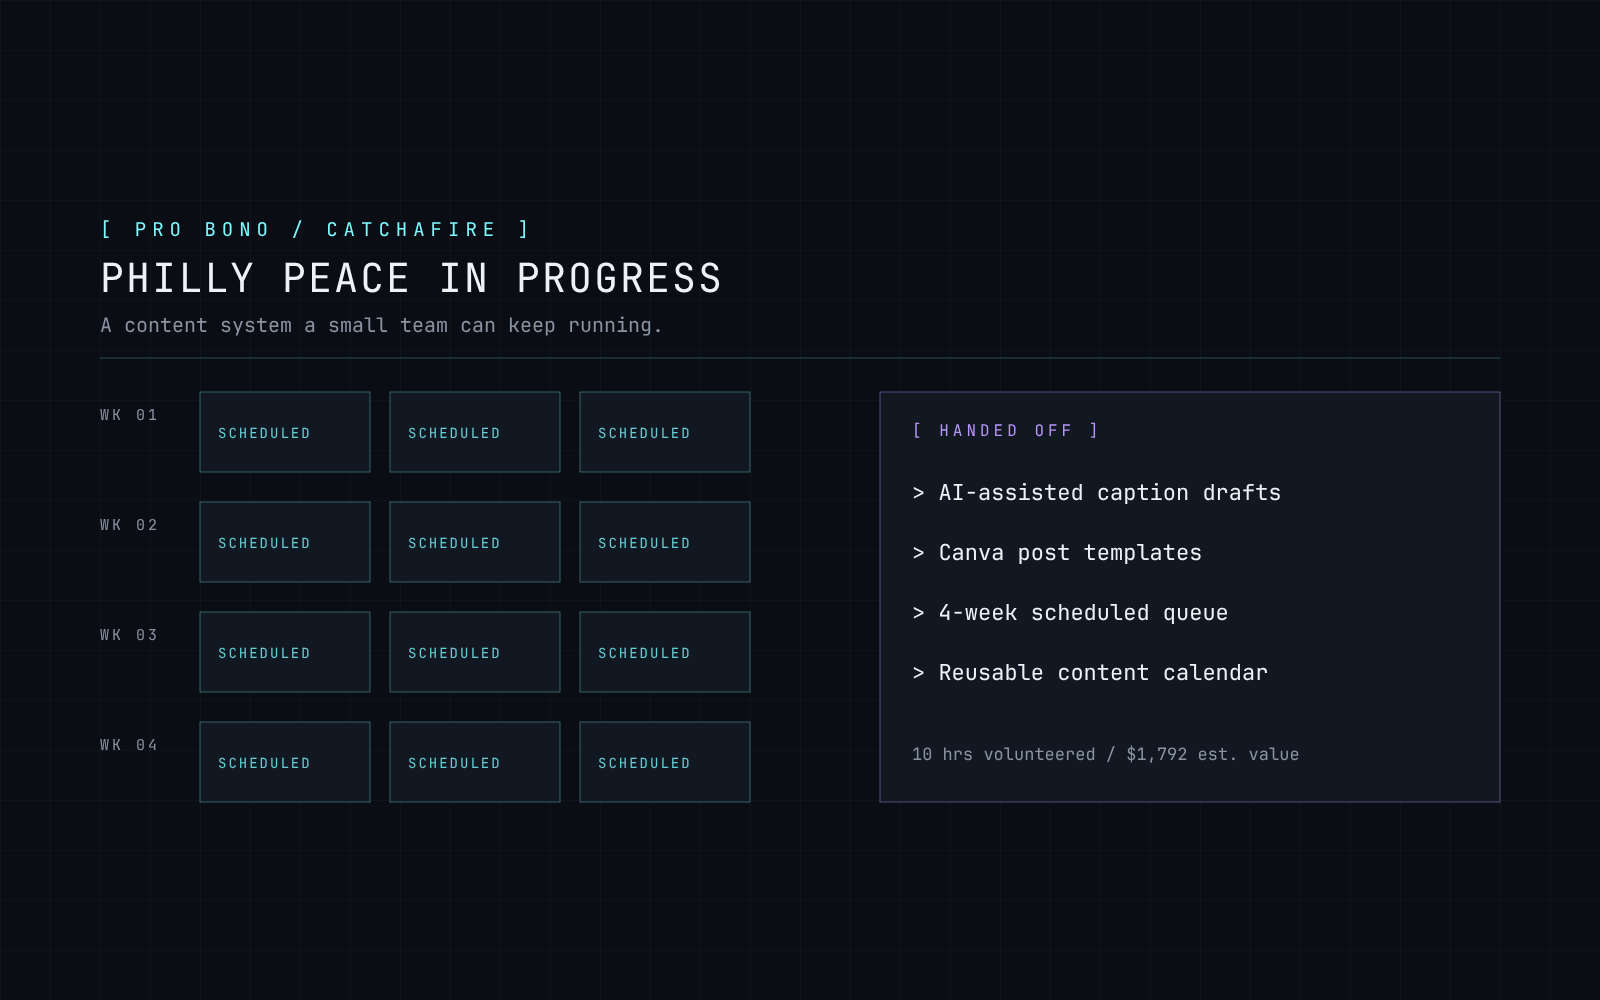
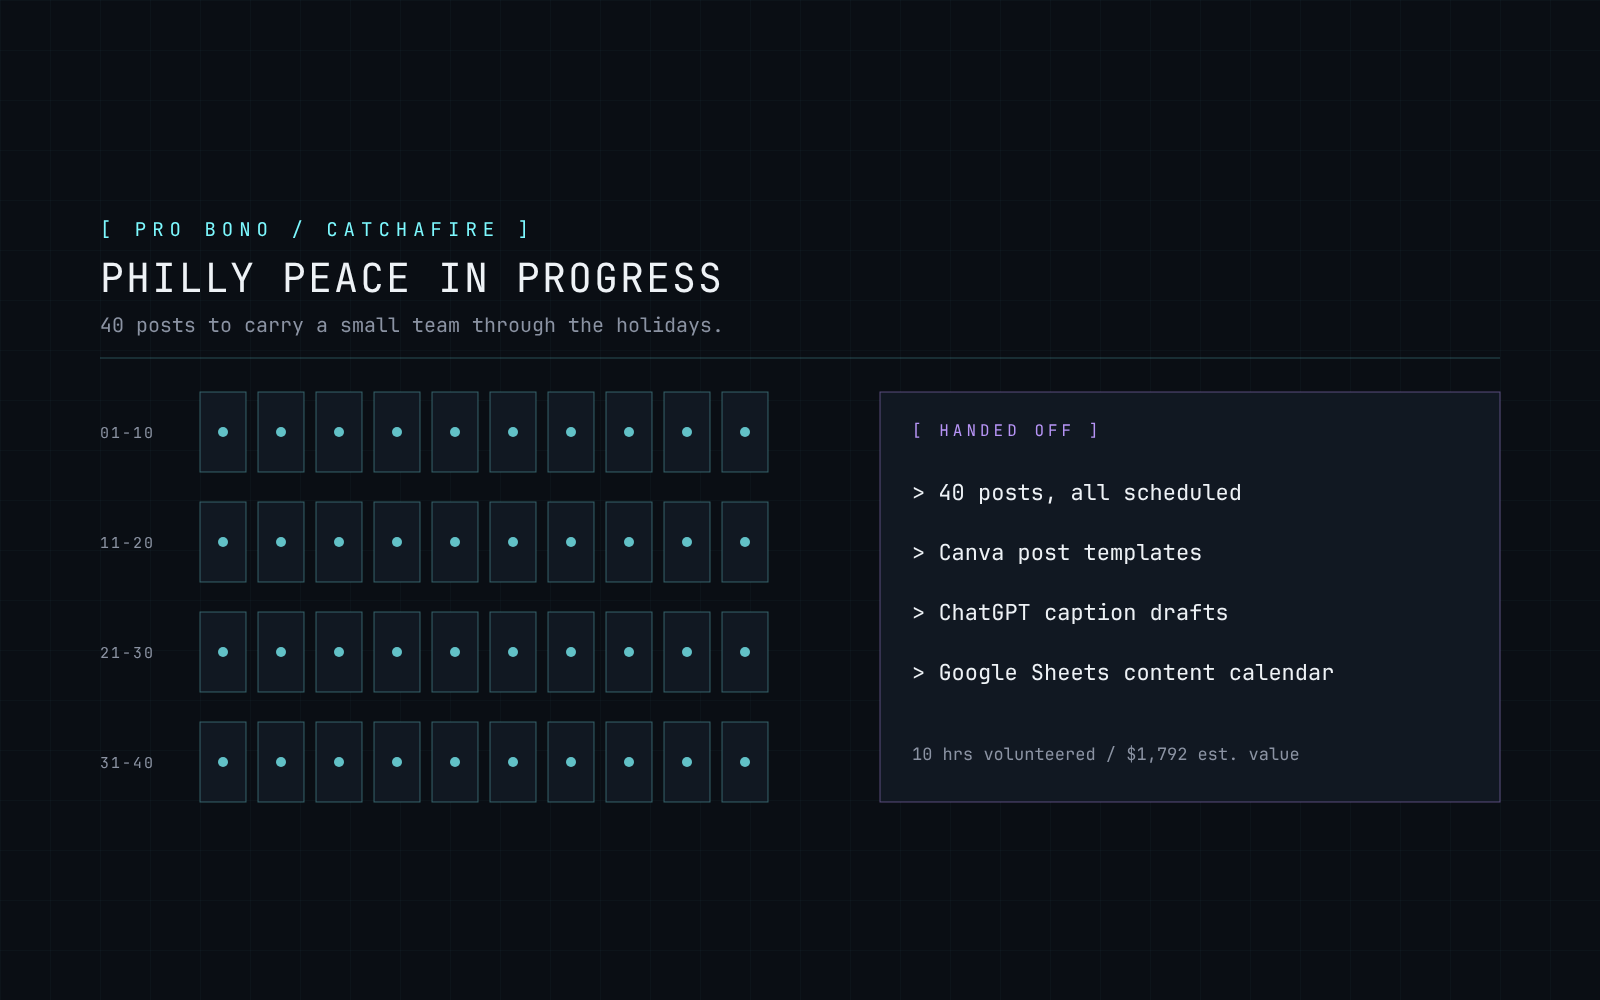
Correct Philly Peace in Progress case study scope (#15)
The org already had an active channel; the work was 40 posts written,
designed, and scheduled to run through the holidays.

Claude-Session: https://claude.ai/code/session_01QxqJyW3JxAU3HtYryGJdXZ

diff --git a/lib/case-studies.ts b/lib/case-studies.ts
@@ -1006,7 +1006,7 @@ export const phillyPeaceCaseStudy: CaseStudy = {
   slug: "philly-peace-in-progress",
   title: "Philly Peace in Progress",
   subtitle:
-    "How a West Philadelphia youth nonprofit went from no active social channel to four weeks of scheduled content and a calendar system their team can keep running on its own.",
+    "How a West Philadelphia youth nonprofit got 40 posts written, designed, and scheduled to carry its social channel through the holidays, plus a calendar system its team can keep running on its own.",
   meta: [
     { label: "Client", value: "Philly Peace in Progress" },
     { label: "Sector", value: "Youth Violence Prevention" },
@@ -1017,8 +1017,8 @@ export const phillyPeaceCaseStudy: CaseStudy = {
   ],
   stats: [
     {
-      value: "4 weeks",
-      label: "Of content written, designed, and scheduled",
+      value: "40 posts",
+      label: "Written, designed, and scheduled",
     },
     {
       value: "10 hrs",
@@ -1080,10 +1080,10 @@ export const phillyPeaceCaseStudy: CaseStudy = {
       step: "02",
       title: "The Problem",
       paragraphs: [
-        "They needed a social media account up and running and posting consistently, to bring more engagement and awareness to their programs. The message was strong. The capacity was not. Nobody on staff had hours to plan, write, design, and schedule posts every week, and without a system, a channel launched in a burst of effort goes quiet a month later.",
+        "Their social channel was already active. What they needed was content to keep it that way through the holidays, the stretch when a small team has the least time and the youth they serve can use the most support. The message was strong. The capacity was not. Nobody on staff had hours to plan, write, design, and schedule posts week after week, and a channel that goes quiet loses the engagement and awareness it took months to build.",
       ],
       bullets: [
-        "No active channel reaching the youth and families they serve",
+        "A holiday stretch with no content in the pipeline",
         "No content plan tying posts back to their programs",
         "No templates, so every future post would start from a blank page",
       ],
@@ -1107,7 +1107,7 @@ export const phillyPeaceCaseStudy: CaseStudy = {
       step: "04",
       title: "The System",
       paragraphs: [
-        "Four weeks of posts went into a scheduler, so the account publishes on its own while the team runs programs. Alongside it, a reusable content calendar built in Google Sheets maps pillars to days, tracks what has been posted, and leaves slots open for events and announcements.",
+        "All 40 posts went into a scheduler, so the account publishes on its own through the holidays while the team runs programs. Alongside it, a reusable content calendar built in Google Sheets maps pillars to days, tracks what has been posted, and leaves slots open for events and announcements.",
         "The goal was to make the next month cheaper than the first. With pillars defined, templates built, and a calendar to fill, a new post is an edit and a caption, not a design project.",
       ],
     },
@@ -1116,7 +1116,7 @@ export const phillyPeaceCaseStudy: CaseStudy = {
       step: "05",
       title: "Results",
       bullets: [
-        "Social account launched with four weeks of content scheduled and ready to post",
+        "40 posts written, designed, and scheduled to run through the holidays",
         "Reusable content calendar template handed off for months of future planning",
         "Delivered in 10 volunteer hours, an estimated $1,792 the org kept for programs",
         "Executive Director called the work exceptional and the delivery fast and professional",

diff --git a/lib/projects.ts b/lib/projects.ts
@@ -153,9 +153,9 @@ export const projects: Project[] = [
     year: 2026,
     category: "Pro Bono",
     description:
-      "A content system for a West Philly youth nonprofit: four weeks of posts scheduled and a reusable calendar the team can run without a volunteer.",
+      "40 social posts written, designed, and scheduled to carry a West Philly youth nonprofit through the holidays, plus a reusable calendar for what comes next.",
     longDescription:
-      "Philly Peace in Progress teaches young people in West Philadelphia, ages 10 to 25, who have been impacted by trauma how to resolve conflict and build resilience. Their social channel needed to be up and running, and a small team had no hours to spare for it. Through Catchafire, the account was launched with four weeks of scheduled posts built around their programs, plus Canva templates, ChatGPT-assisted caption drafting, and a reusable Google Sheets content calendar so the team can keep publishing on their own.",
+      "Philly Peace in Progress teaches young people in West Philadelphia, ages 10 to 25, who have been impacted by trauma how to resolve conflict and build resilience. Their channel was active, but the holidays were coming and a small team had no hours to keep it fed. Through Catchafire, 40 posts built around their programs were written, designed, and scheduled to run through the season, with Canva templates, ChatGPT-assisted caption drafting, and a reusable Google Sheets content calendar so the team can keep publishing on their own.",
     image: "/projects/philly-peace-in-progress.png",
     tags: [
       "Canva",
